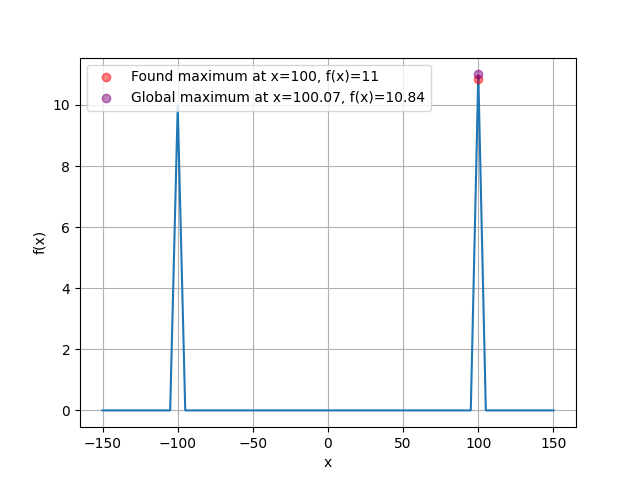
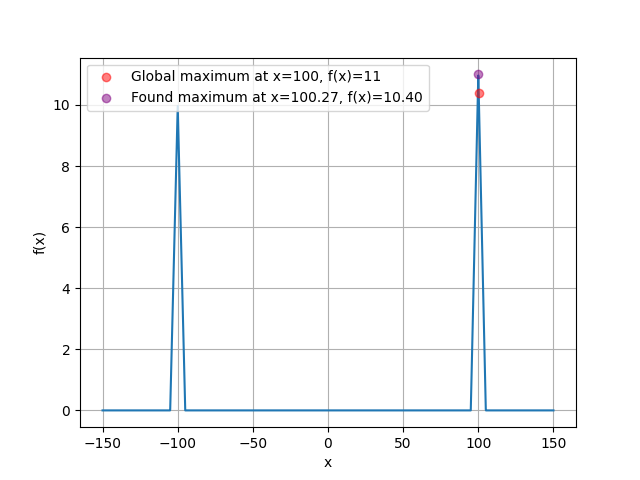
feat: enhance SimulatedAnnealing to return best iterations; update documentation and plots accordingly

Changed region(s): [[0.1875, 0.125, 0.6875, 0.2188], [0.7188, 0.1562, 0.7812, 0.2188]]

diff --git a/zadanie2/src/point_3.py b/zadanie2/src/point_3.py
@@ -1,0 +1,98 @@
+import matplotlib.pyplot as plt
+import numpy as np
+
+from algorithm import SimulatedAnnealing
+from funcs import func_section_3
+
+
+def draw_plots(x, results, title):
+    times = [result[0] for result in results]
+    iters = [result[1] for result in results]
+    diffs = [result[2] for result in results]
+
+    fig, axes = plt.subplots(nrows=3, ncols=1, figsize=(12, 10))
+    fig.suptitle(f'Dependence of parameters on {title}', fontsize=16)
+
+    axes[0].plot(x, times, 'b-', linewidth=2)
+    axes[0].set_xlabel(f'{title}')
+    axes[0].set_ylabel('Time [s]')
+    axes[0].set_title(f'{title} vs Time')
+    axes[0].grid(True)
+
+    axes[1].plot(x, iters, 'g-', linewidth=2)
+    axes[1].set_xlabel(f'{title}')
+    axes[1].set_ylabel('Number of iterations')
+    axes[1].set_title(f'{title} vs Number of iterations')
+    axes[1].grid(True)
+
+    axes[2].plot(x, diffs, 'r-', linewidth=2)
+    axes[2].set_xlabel(f'{title}')
+    axes[2].set_ylabel('Difference from global max')
+    axes[2].set_title(f'{title} vs Difference from global max')
+    axes[2].grid(True)
+
+    plt.tight_layout()
+    plt.savefig(f'../sprawozdanie/figures/{title.lower()}_overview.png')
+    plt.show()
+
+
+def test_parameter(algorithm: SimulatedAnnealing,
+                   length: int,
+                   temperatures=None,
+                   alphas=None,
+                   epochs=None) -> list[tuple[float, int, float]]:
+    results = []
+    for i in range(length):
+        sum_time: float = 0.0
+        sum_best_iters: int = 0
+        sum_difference: float = 0.0
+        for _ in range(5):
+            (point, value, best_iters), time = algorithm.run_epochs(
+                epochs=(5000 if epochs is None else epochs[i]),
+                attempts_per_epoch=1,
+                init_temp=(500.0 if temperatures is None else temperatures[i]),
+                alpha=lambda t: (0.999 if alphas is None else alphas[i]) * t,
+                k=0.1
+            )
+            sum_time += time
+            sum_best_iters += best_iters
+            sum_difference += abs(value - 11)
+
+        results.append((sum_time / 5, sum_best_iters // 5, float(sum_difference / 5)))
+
+    return results
+
+
+def main():
+    annealing_section_3 = SimulatedAnnealing(
+        func=func_section_3,
+        domain=(-150, 150)
+    )
+
+    # temperatures = np.linspace(1, 1000, 200)
+    # temperatures_results = test_parameter(
+    #     algorithm=annealing_section_3,
+    #     length=len(temperatures),
+    #     temperatures=temperatures
+    # )
+    # draw_plots(temperatures, temperatures_results, 'Temperature')
+
+    # alphas = np.linspace(0.8, 1, 100)
+    # alphas_results = test_parameter(
+    #     algorithm=annealing_section_3,
+    #     length=len(alphas),
+    #     alphas=alphas
+    # )
+    # draw_plots(alphas, alphas_results, 'Alpha')
+
+    epochs = np.linspace(100, 10000, 200, dtype=int)
+    epochs_results = test_parameter(
+        algorithm=annealing_section_3,
+        length=len(epochs),
+        epochs=epochs
+    )
+    draw_plots(epochs, epochs_results, 'Epochs')
+
+
+if __name__ == "__main__":
+    main()

diff --git a/zadanie2/sprawozdanie/bk_nn_zad2.tex b/zadanie2/sprawozdanie/bk_nn_zad2.tex
@@ -134,7 +134,8 @@
     określoną liczbę prób w każdej epoce. W każdej próbie generowany jest nowy punkt poprzez wybranie go z losowego sąsiedztwa aktualnie najlepszego punktu, z 
     uwzględnieniem bieżącej temperatury. Wartość funkcji w nowym punkcie jest obliczana i porównywana z najlepszą dotychczasową wartością. Jeśli nowa wartość jest 
     lepsza, to staje się nowym najlepszym punktem. Jeśli jest gorsza, to istnieje prawdopodobieństwo akceptacji tego gorszego rozwiązania, które zależy od różnicy 
-    wartości funkcji oraz bieżącej temperatury. Na koniec każdej epoki temperatura jest schładzana za pomocą funkcji \texttt{alpha}.
+    wartości funkcji oraz bieżącej temperatury. Na koniec każdej epoki temperatura jest schładzana za pomocą funkcji \texttt{alpha}. Jeżeli wartość temperatury
+    spadnie poniżej bardzo małej wartości (1e-10), pętla zostaje przerwana.
 
     \begin{lstlisting}[language=Python, caption={Główna pętla algorytmu symulowanego wyżarzania}]
     for _ in range(epochs):
@@ -157,6 +158,8 @@
                     best_point, best_f_value = new_point, f_value
 
         temp = alpha(temp)
+        if temp < 1e-10:
+            break
 
     return best_point, best_f_value
     \end{lstlisting}
@@ -189,7 +192,7 @@
 
     Wybrana funkcja posiada dwa ekstrema lokalne - \(f(-100) = 10\) oraz \(f(100) = 11\). Funkcja poza okolicami tych ekstremów przyjmuje wartość \(0\). Jej maksimum globalne to \(f(100) = 11\).
 
-    Znalezione przez nas maksimum funkcji \(f(x)\) to \(f(100.07) = 10.84\) (rysunek \ref{fig:wykres_sekcja_3}), co różni się od maksimum globalnego o \(\delta=|10.84-11|=0.16\).
+    Znalezione przez nas maksimum funkcji \(f(x)\) to \(f(100.27) = 10.40\) (rysunek \ref{fig:wykres_sekcja_3}), co różni się od maksimum globalnego o \(\delta=|10.84-11|=0.16\).
 
     \newpage
     \subsection{Wybrana funkcja z rozdziału 4}

diff --git a/zadanie2/src/algorithm.py b/zadanie2/src/algorithm.py
@@ -23,15 +23,17 @@ class SimulatedAnnealing:
                    attempts_per_epoch: int,
                    init_temp: float,
                    alpha: Callable[[float], float],
-                   k: float) -> tuple[list[float], float]:
+                   k: float) -> tuple[list[float], float, int]:
 
         best_point = [uniform(self.domain[i][0], self.domain[i][1])
                       for i in range(self.dimensions)]
         best_f_value = self.func(*best_point)
         temp = init_temp
+        best_iters, iters = 0, 0
 
         for _ in range(epochs):
             for _ in range(attempts_per_epoch):
+                iters += 1
                 new_point = []
                 for i in range(self.dimensions):
                     left, right = self.domain[i]
@@ -40,15 +42,19 @@ class SimulatedAnnealing:
                     new_coord = max(left, min(new_coord, right))
                     new_point.append(new_coord)
 
-                f_value = self.func(*new_point)
+                f_value = self.func(*new_point)  # *[6, 7] = 6, 7
 
                 if f_value > best_f_value:
+                    best_iters = iters
                     best_point, best_f_value = new_point, f_value
                 else:
                     p = uniform(0, 1)
                     if exp((f_value - best_f_value) / (k * temp)) > p:
+                        best_iters = iters
                         best_point, best_f_value = new_point, f_value
 
             temp = alpha(temp)
+            if temp < 1e-10:
+                break
 
-        return best_point, best_f_value
+        return best_point, best_f_value, best_iters

diff --git a/zadanie2/src/plots.py b/zadanie2/src/plots.py
@@ -2,14 +2,14 @@ import matplotlib.pyplot as plt
 import numpy as np
 
 from funcs import *
-from zadanie2.src.algorithm import SimulatedAnnealing
+from algorithm import SimulatedAnnealing
 
 
 def draw_plot_section_3():
     x = np.linspace(-150, 150, 3000)
     y = [func_section_3(xi) for xi in x]
 
-    (point, value), _ = SimulatedAnnealing(
+    (point, value, best_iters), _ = SimulatedAnnealing(
         func=func_section_3,
         domain=(-150, 150)
     ).run_epochs(
@@ -22,9 +22,9 @@ def draw_plot_section_3():
 
     plt.plot(x, y)
     plt.scatter(point[0], value, color='red', zorder=10, alpha=0.5,
-                label=f'Found maximum at x=100, f(x)=11')
+                label=f'Global maximum at x=100, f(x)=11')
     plt.scatter(100, 11, color='purple', zorder=10, alpha=0.5,
-                label=f'Global maximum at x={point[0]:.2f}, f(x)={value:.2f}')
+                label=f'Found maximum at x={point[0]:.2f}, f(x)={value:.2f}')
     plt.xlabel('x')
     plt.ylabel('f(x)')
     plt.legend()
@@ -41,7 +41,7 @@ def draw_plot_section_4():
     zz = np.array([[func_section_4(xi, yi) for xi, yi in zip(x_row, y_row)]
                   for x_row, y_row in zip(xx, yy)])
 
-    (point, value), _ = SimulatedAnnealing(
+    (point, value, best_iters), _ = SimulatedAnnealing(
         func=func_section_4,
         domain=[(-3, 12), (4.1, 5.8)]
     ).run_epochs(

diff --git a/zadanie2/src/point_2.py b/zadanie2/src/point_2.py
@@ -8,7 +8,7 @@ def main():
         func=func_section_3,
         domain=(-150, 150)
     )
-    (point, value), _ = annealing_section_3.run_epochs(
+    (point, value, best_iters), _ = annealing_section_3.run_epochs(
         epochs=5000,
         attempts_per_epoch=1,
         init_temp=500.0,
@@ -26,7 +26,7 @@ def main():
         func=func_section_4,
         domain=[(-3, 12), (4.1, 5.8)]
     )
-    (point, value), _ = annealing_section_4.run_epochs(
+    (point, value, best_iters), _ = annealing_section_4.run_epochs(
         epochs=7000,
         attempts_per_epoch=1,
         init_temp=100.0,
